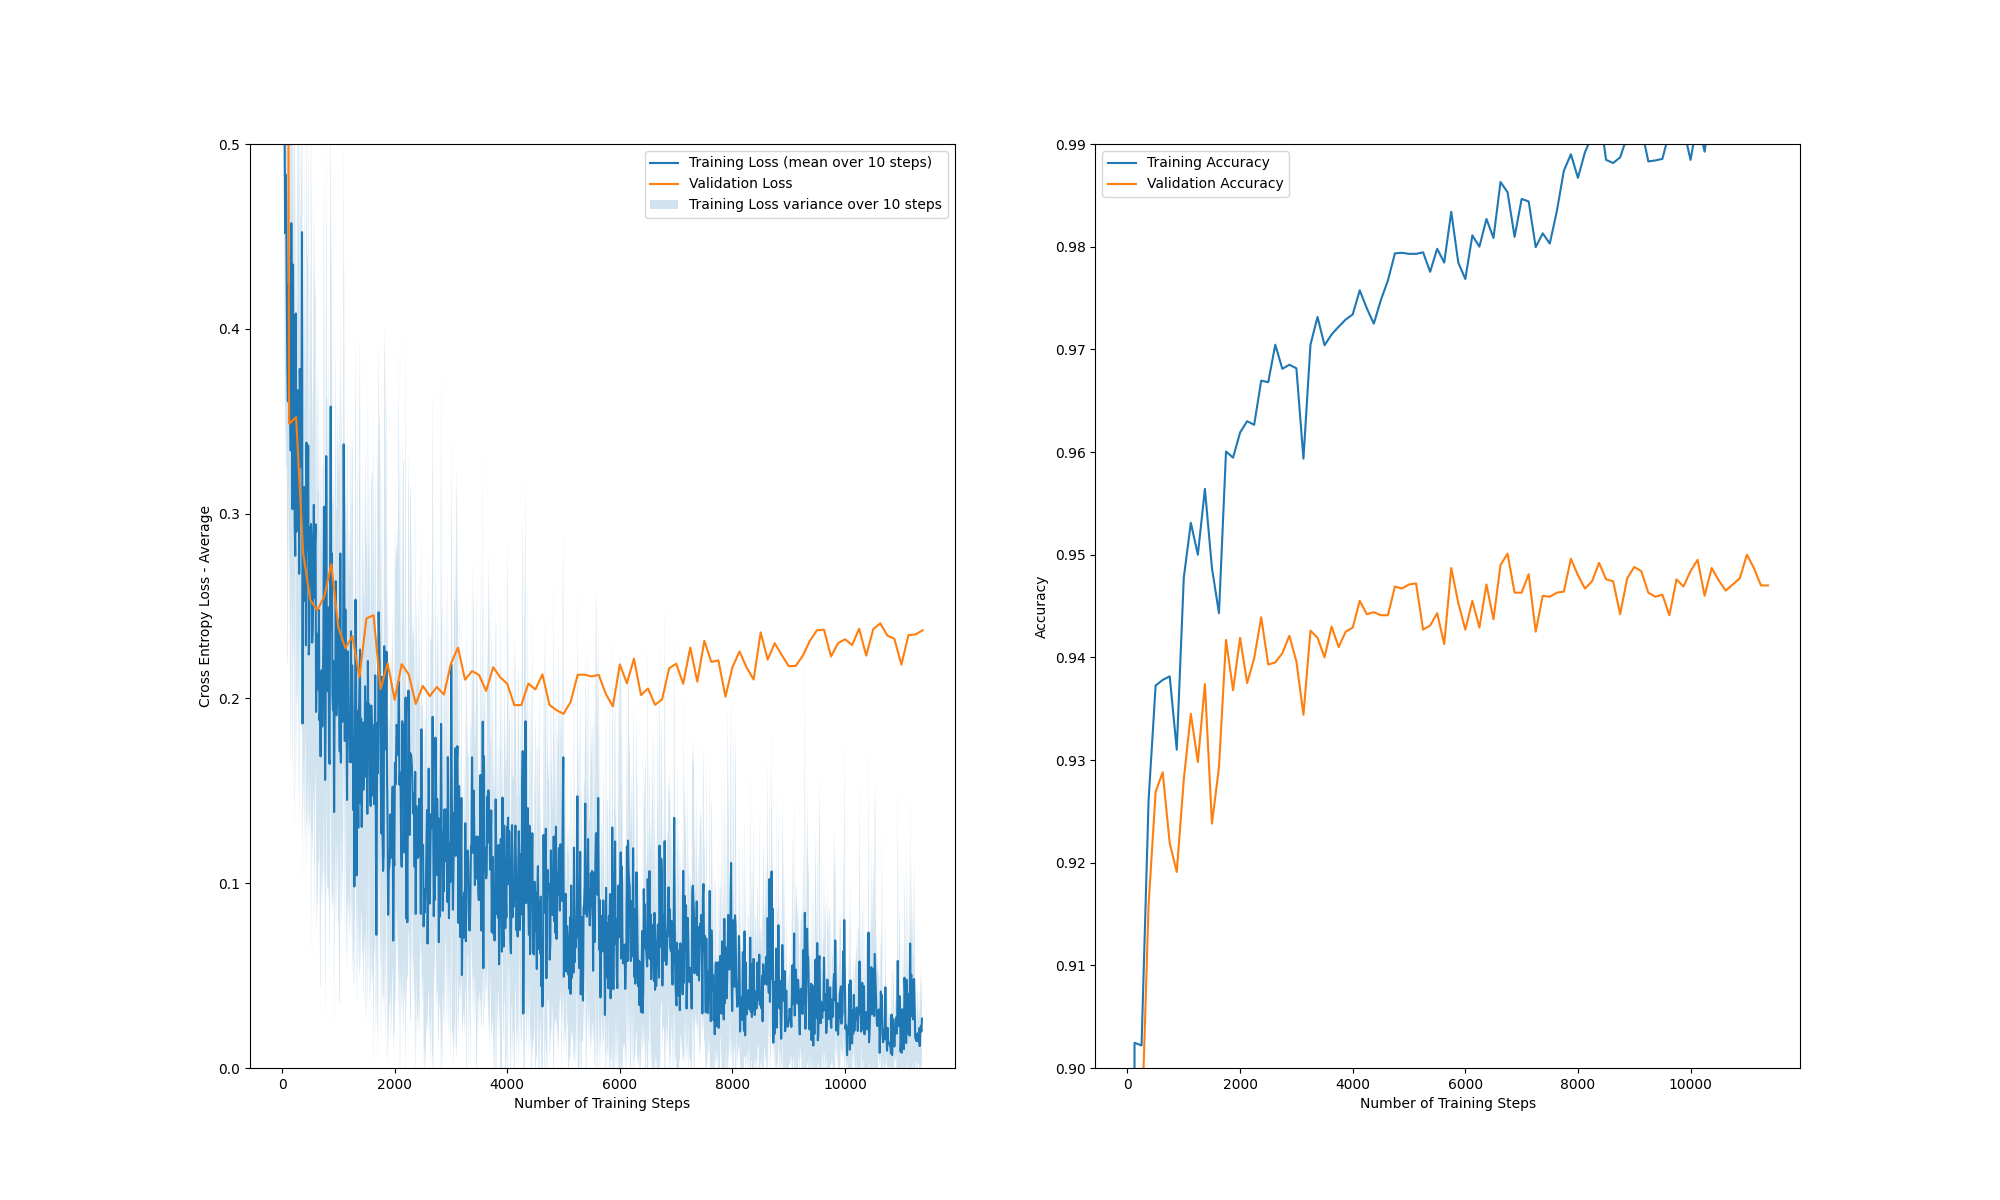
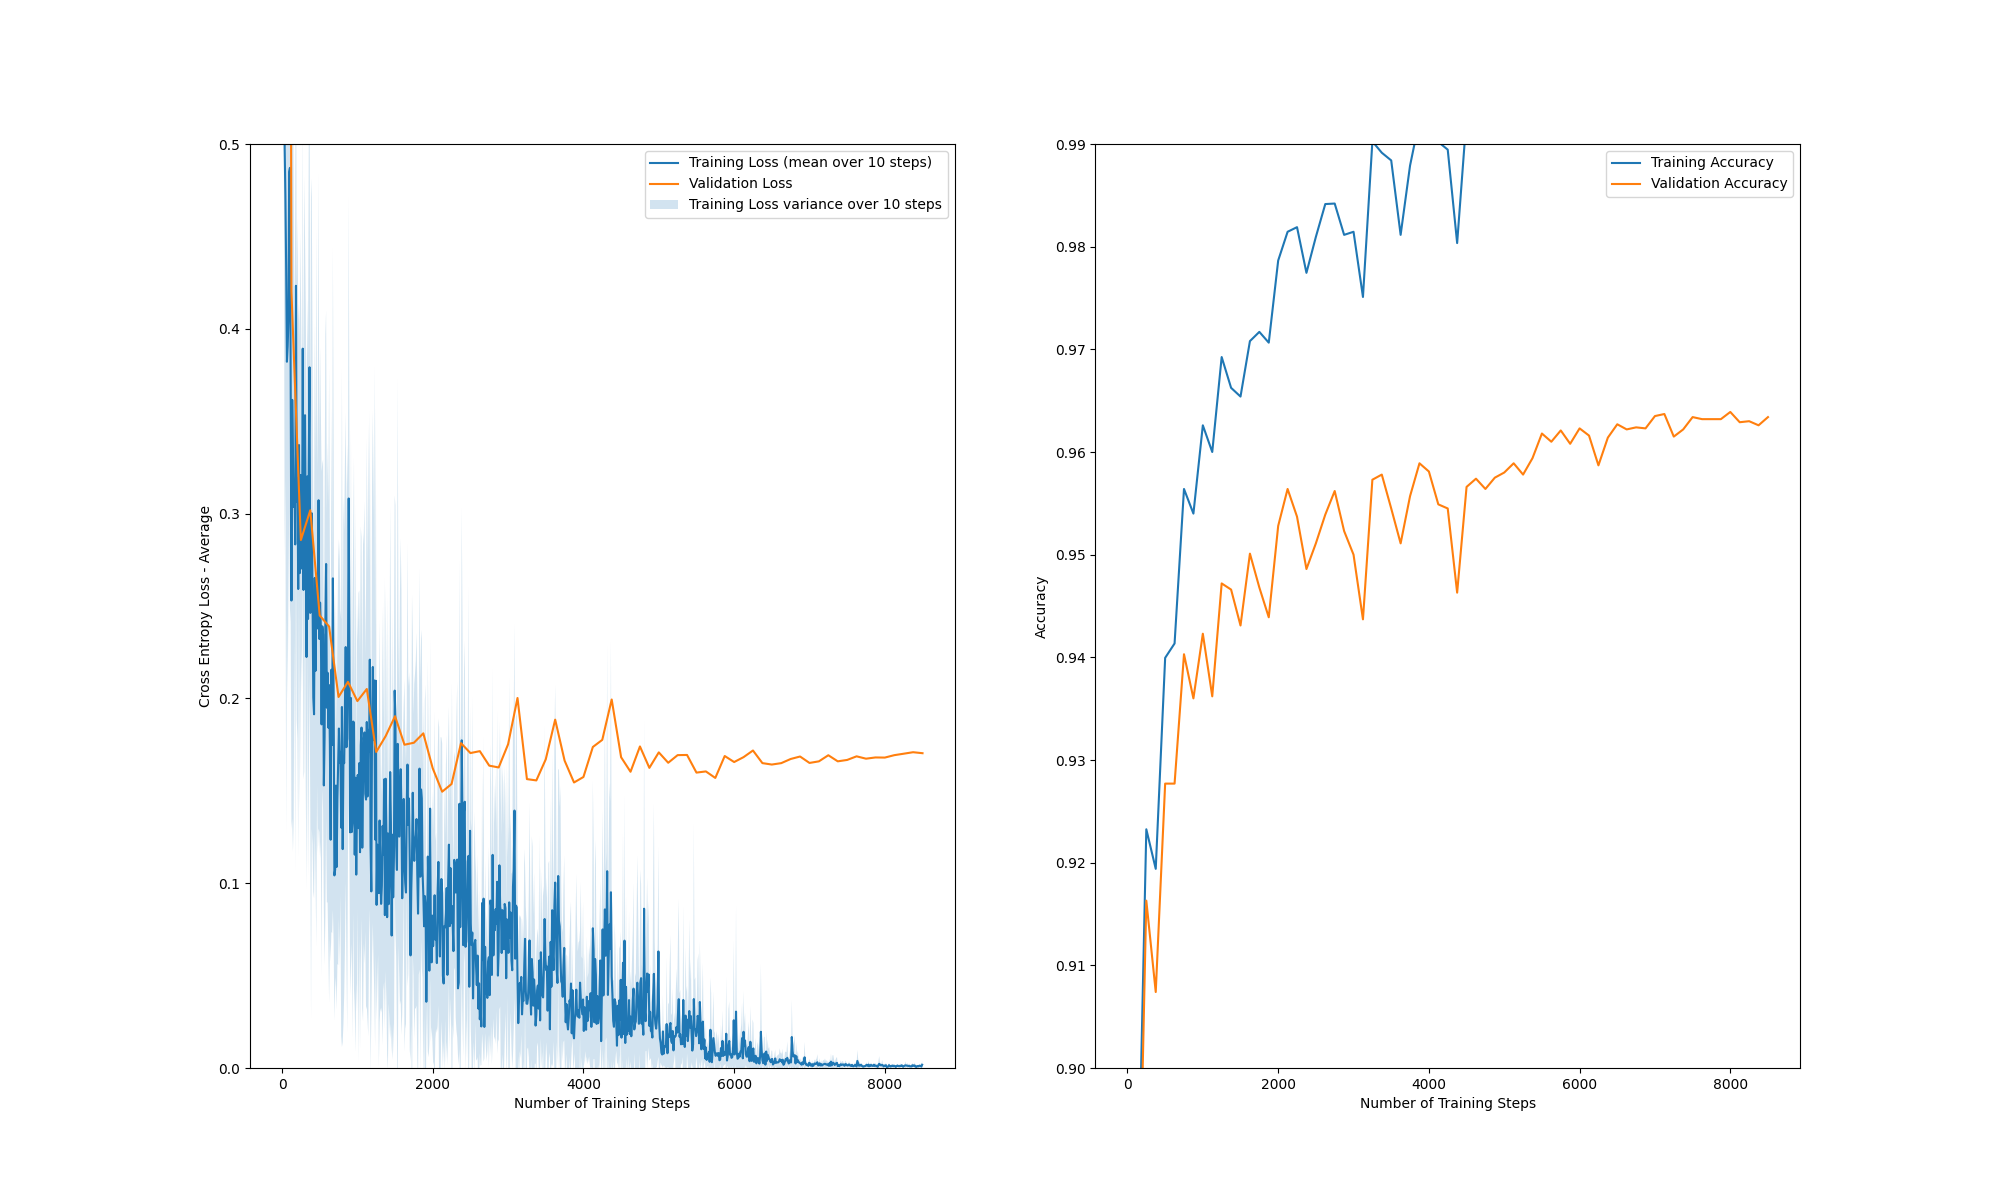
4d - hidden units set to 60

diff --git a/assignment2/task4d.py b/assignment2/task4d.py
@@ -8,7 +8,7 @@ if __name__ == "__main__":
     num_epochs = 50
     learning_rate = .02
     batch_size = 32
-    neurons_per_layer = [32, 32, 10]
+    neurons_per_layer = [60, 60, 10]
     momentum_gamma = .9  
     shuffle_data = True
 
